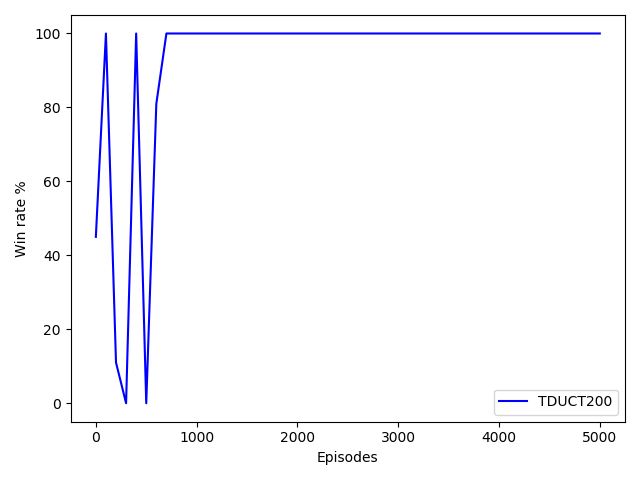
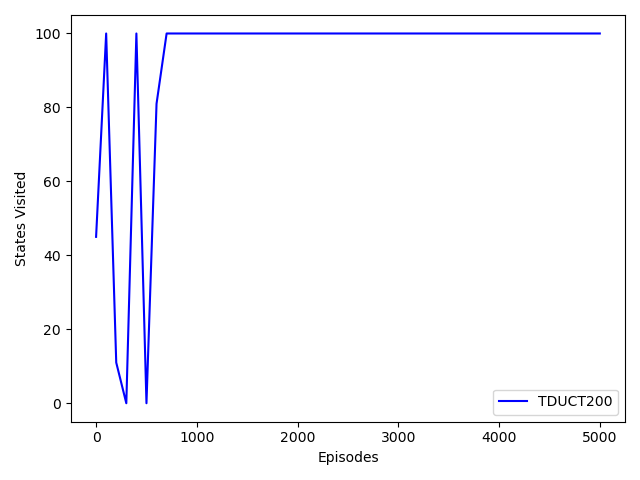
Add files via upload

diff --git a/GUI/Plotter.py b/GUI/Plotter.py
@@ -1,4 +1,4 @@
-<<<<<<< HEAD
+
 import numpy as np
 from matplotlib import pyplot as plt
 from matplotlib import rcParams
@@ -19,7 +19,7 @@ class Plotter:
             plt.plot(x, y, col, label=label)
 
         plt.xlabel("Episodes")
-        plt.ylabel("Win rate %")
+        plt.ylabel("States Visited")
         plt.legend()
         plt.savefig(self.title + ".png")
         plt.show()
@@ -102,7 +102,7 @@ harry.plot(tic_x,tic2_y, "TDUCT10", 'b')
 ##harry.plot(td_x, td_data, "TDUCT", 'b')
 #harry.plot(data2, "MCTS_TD")
 harry.show()
-=======
+
 import numpy as np
 from matplotlib import pyplot as plt
 from matplotlib import rcParams
@@ -181,7 +181,84 @@ harry.plot(TTT_TD_X_3, TTT_TD_Y_3, "TDUCT200", 'b')
 
 
 
-#exploration_rate
+#Learning rate states
+
+harry = Plotter("States Visited TDMCTS_Learning_rate")
+
+
+x = [0,200,400,600,800,1000,1200,1400,1600,1800,2000,2200,2400,2600,2800,3000,3200,3400,3600,3800,4000,4200,4400,4600,4800,5000, 5200, 5400, 5600, 5800, 6000, 6200, 6400, 6600, 6800, 7000, 7200, 7400, 7600, 7800, 8000, 8200, 8400, 8600, 8800, 9000, 9200, 9400, 9600, 9800, 10000]
+
+y_a0 = [0,307773,	513181,	588401,	692031,	759846,	779517,794685,871175,940094, 1036117, 1159687, 1195458, 1229790, 1349763, 1523471, 1583391, 1738018, 1758428, 1818709, 1874399, 1892737, 1918457, 1964668, 1983723, 2016113, 2030805, 2039971, 2254563, 2315472, 2456691, 2603055, 2805546, 2932701, 2979490, 3061011, 3118436, 3124308, 3138891, 3178553, 3209724, 3334728, 3471004, 3587963 , 3640439 , 3667998 , 3702022 , 3717556 , 3724670 , 3740001 , 3798870 ]
+y_a000005 = [	0, 390864,	778655,	1174581, 1565796,1963655,2337226,2732691,3122833,3492790,3873584,4267858,4660874,5050125,5432511,5820946,6206307,6587736,6987669,7384732,7768738,8147343,8527228,8919797,9299689,9674877, 10053975, 10448407, 10836779, 11203896, 11577506, 11788989, 11850991,	11862326, 11872127, 11881296, 11889682, 11896458, 11900492, 11905361, 12046898, 12076242, 12106115, 12133647, 12158464, 12177915, 12210211, 12236957, 12260870, 12279225, 12302797]
+y_a0005=[0,305673,595619,802217,919602,919651,919727,919743,919762,919865,919943,921701,921701,996145,996270,996359,996362,996558,1075523,1329949,1578267,1800799,1963033,2129028,2240356,2365566,2610178,2813462,3003096,3106739,3188777,3580292,3972275,4364877,4754258,5153260,5550011,5942036,6321679,6697975,7082929,7471884,7857505,8238204,8633286,9033403,9432505,9841192,10236427,10409861,10500491]
+
+y_a005 = []
+y_a1 = [	0, 390349,	770861,	1130285,	1495558,    1848783,    2213462,    2589350,    2945203,    3297765,    3641453,    4008239,    4357299,    4725217,    5078530,    5432117,    5800541,    6166708,    6534999,    6887675,    7241406,    7604095,    7963265,    8318545,    8670800,    9027152,    9372992,    9728244,   10084833,   10437379,   10805491,   11167469,   11517191,	11873613,	12234932,	12599859,	12970279,   13347485,   13710928,   14081511,   14429017,   14787225,   15145304,   15496588,   15857973,   16220550,   16580052,   16939279,   17300237,   17650062,   18022345]
+
+harry.plot(x, y_a1, "1.0a", "purple")
+harry.plot(x, y_a0 , "0.0a", "r")
+harry.plot(x, y_a0005 , "0.0005a", "b")
+harry.plot(x, y_a000005 , "0.000005a", "g")
+
+
+
+
+'''
+#Exploration rate
+
+x = [0,200,400,600,800,1000,1200,1400,1600,1800,2000,2200,2400,2600,2800,3000,3200,3400,3600,3800,4000,4200,4400,4600,4800,5000]
+
+y_e0 = [46, 41, 47, 49,41,44,46,58,59,51,34,45,43,42,49,49,42,47,51,48,39,54,47,45,39,42]
+y_e10 = [2,1,2,2,0,3,1,1,11,0,3,5,3,0,1,6,4,2,1,7,0,3,0,3,15,12]
+y_e05 = [46,53,60,63,59,58,48,51,67,60,49,61,60,57,59,69,57,71,65,66,51,53,64,65,58,66]
+y_e0 = [46,41,47,49,41,44,46,38,40,51,34,45,43,42,46,48,42,49,51,44,39,54,47,45,39,42]
+y_e075 = [29,31,46,48,49,38,51,41,40,46,51,53,35,57,53,59,19,49,43,55,55,50,46,58,49,53]
+y_e1 = [19,32,32,14,18,31,25,32,25,27,28,37,38,36,16,36,35,36,34,38,34,33,38,30,39,41]
+y_e025 = [52,71,57,66,68,67,70,66,61,69,65,74,69,67,70,69,69,73,75,77,73,65,73,77,83,66]
+
+y_e01 = [53, 55, 67, 60, 70, 69, 66, 70, 67, 57, 68, 65, 62, 60, 61, 60, 69, 69, 73, 67, 66, 71, 64, 65, 64, 69]
+y_e02 = [54, 60, 65, 69, 66, 68, 62, 73, 66, 69, 72, 70, 67, 72, 68, 69, 59, 68, 70, 64, 71, 65, 82, 69, 65, 72]
+y_e03 = [50, 65, 67, 61, 62, 64, 68, 61, 61, 74, 73, 71, 73, 67, 74, 62, 65, 71, 73, 70, 60, 74, 71, 58, 71, 66]
+harry = Plotter("Exploration rates TDMCTS")
+#harry.plot(x, y_e0, "0.0e", 'r')
+#harry.plot(x, y_e01, "0.1e", "navy")
+#harry.plot(x, y_e02, "0.2e", "cyan")
+#harry.plot(x, y_e025, "0.25e", 'magenta')
+#harry.plot(x, y_e03, "0.3e", "darkorange")
+#harry.plot(x, y_e05, "0.5e", 'y')
+#harry.plot(x, y_e075, "0.75e", 'green')
+#harry.plot(x, y_e1, "1.0e", 'black')
+#harry.plot(x, y_e10, "10.0e", 'darkorchid')
+'''
+'''
+#states
+
+y_e075 = [0, 252073, 495237, 723056, 936743, 1182732, 1410155, 1624369, 1833986, 2035201, 2239255, 2460709, 2680676, 2919326, 3115230, 3336957, 3551249, 3779551, 4011158, 4237536, 4452172, 4672264, 4901960, 5128243, 5334830, 5551729]
+y_e025 = [0, 305673, 595619, 802217, 919602, 919651, 919727, 919743, 919762, 919865, 919943, 921701, 921701, 996145, 996270, 996359, 996362, 996558, 1075523, 1329949, 1578267, 1800799, 1963033, 2129028, 2240356, 2365566]
+y_e1 = [0,224876, 430693, 635693, 845897, 1046671, 1246522, 1445679, 1659574, 1847584, 2052374, 2239457, 2420763, 2605862, 2798303, 3003546, 3208599, 3393911, 3584797, 3773356,3974759, 4188104, 4378680, 4559218, 4744966, 4923223]
+y_e10 = [0, 246346, 464455, 667352, 862999, 1059502, 1238155, 1432901, 1627999, 1800413, 1989953, 2160565, 2327048, 2510331, 2713225, 2888034, 3060141, 3238829, 3421540, 3584418, 3761008, 3937645, 4124257, 4288847, 4469666, 4619676 ]
+y_e05 = [0, 299675, 590252, 874033, 1165941, 1425995, 1695583, 1968681, 2215802, 2455953, 2706504, 2940208, 3179092, 3402377, 3619097, 3832060, 4027781, 4251858, 4478073, 4680529, 4878067, 5029875, 5178508, 5334035, 5470619, 5611263]
+
+x_e005 = [0, 200, 400, 600, 800, 1000, 1200,1400,1800,5000]
+y_e005 = [0, 16036, 16036, 16036, 16039, 16041, 20374, 22560, 22560,22560]
+
+harry = Plotter("States Visited TDMCTS")
+harry.plot([0,200,5000], [0,4570,4570], "0.0e", "r")
+
+#harry.plot(x_e005, y_e005, "0.05e", 'navy')
+harry.plot(x, y_e025, "0.25e", 'magenta')
+harry.plot(x, y_e05, "0.5e", 'y')
+harry.plot(x, y_e075, "0.75e", 'green')
+harry.plot(x, y_e1, "1.0e", 'black')
+harry.plot(x, y_e10, "10.0e", 'cyan')
+'''
+
+
+
+
+
+
+#exploration_rate ttt
 x = [0,200,400,600,800,1000,1200,1400,1600,1800,2000,2200,2400,2600,2800,3000,3200,3400,3600,3800,4000,4200,4400,4600,4800,5000, 5200, 5400, 5600]
 
 e025_y = [0,305673,595619,802217,919602,919651,919727,919743,919762,919865,919943,921701,921701,996145,996270,996359,996362,996558,1075523,1329949,1578267,1800799,2042823,2249360,2439793,2566097, 2698693, 2859224, 3037048]
@@ -193,12 +270,13 @@ e1_y = [0, 224876, 430693, 635693,845897,1046671, 1246522, 1445679, 1659574, 184
 
 x_4 = [0, 200, 6000]
 e0_y = [0,1108,1108]
-
+'''
 harry = Plotter("Exploration rates TDMCTS")
 harry.plot(x, e025_y, "0.25", 'r')
 harry.plot(x_2, e1_y, "1.0", 'b')
 harry.plot(x_3, e05_y, "0.5", 'g')
 harry.plot(x_4, e0_y, "0.0", 'y')
+'''
 '''
 
 td_200_v_ab6_x = [0,100,200,300,400,500,600,700,800,900,1000,1100,1200,1300,1400,1500]
@@ -229,4 +307,4 @@ harry.plot(tic_x,tic2_y, "TDUCT10", 'b')
 ##harry.plot(td_x, td_data, "TDUCT", 'b')
 #harry.plot(data2, "MCTS_TD")
 harry.show()
->>>>>>> 391e228... graph time
+

diff --git a/TestHarness.py b/TestHarness.py
@@ -1,4 +1,4 @@
-<<<<<<< HEAD
+
 from Core import LOGGER
 LOGGER.filename = "testHarness"
 from GUI import GameGUI as GUI
@@ -11,7 +11,8 @@ from matplotlib import colors as COLOURS
 import multiprocessing as mp
 
 
-players = [Bot("RED", algorithm=MCTS_UCT(n=500,e = 0.5, memory="hello/2_max_5000")), Human("BLUE")]
+players = [Human("BLUE"),Human("RED") ]
+
 def get_states(data, moves):
     states = {}
     boards = []
@@ -26,48 +27,16 @@ def get_states(data, moves):
         if state in states:
             print(boards.index(states[state]), ". ", state, " ", node)
 
+for i in range(10000):
+
+    if i % 200 == 0:
+        print(i)
 
 import Game
 
 import sys
 print(sys.maxsize)
 #ame.simulation(TicBoard, players, 10)
-board = ConnectBoard(players)
+board = TicBoard(players)
 GUI.play(board)
-=======
-from Core import LOGGER
-LOGGER.filename = "testHarness"
-from GUI import GameGUI as GUI
-from Player import *
-from Algorithms import *
-from Boards import *
-from matplotlib import colors as COLOURS
 
-
-import multiprocessing as mp
-
-
-players = [Human("YELLOW"), Human("BLUE")]
-def get_states(data, moves):
-    states = {}
-    boards = []
-    b = BitBoard(players)
-    for move in moves:
-        b.place(move)
-        _b = deepcopy(b)
-        boards.append(_b)
-        states[b.get_state()] = _b
-
-    for state, node in data.items():
-        if state in states:
-            print(boards.index(states[state]), ". ", state, " ", node)
-
-
-import Game
-
-import sys
-print(sys.maxsize)
-#ame.simulation(TicBoard, players, 10)
-board = ConnectBoard(players)
-GUI.play(board)
->>>>>>> 391e228... graph time
